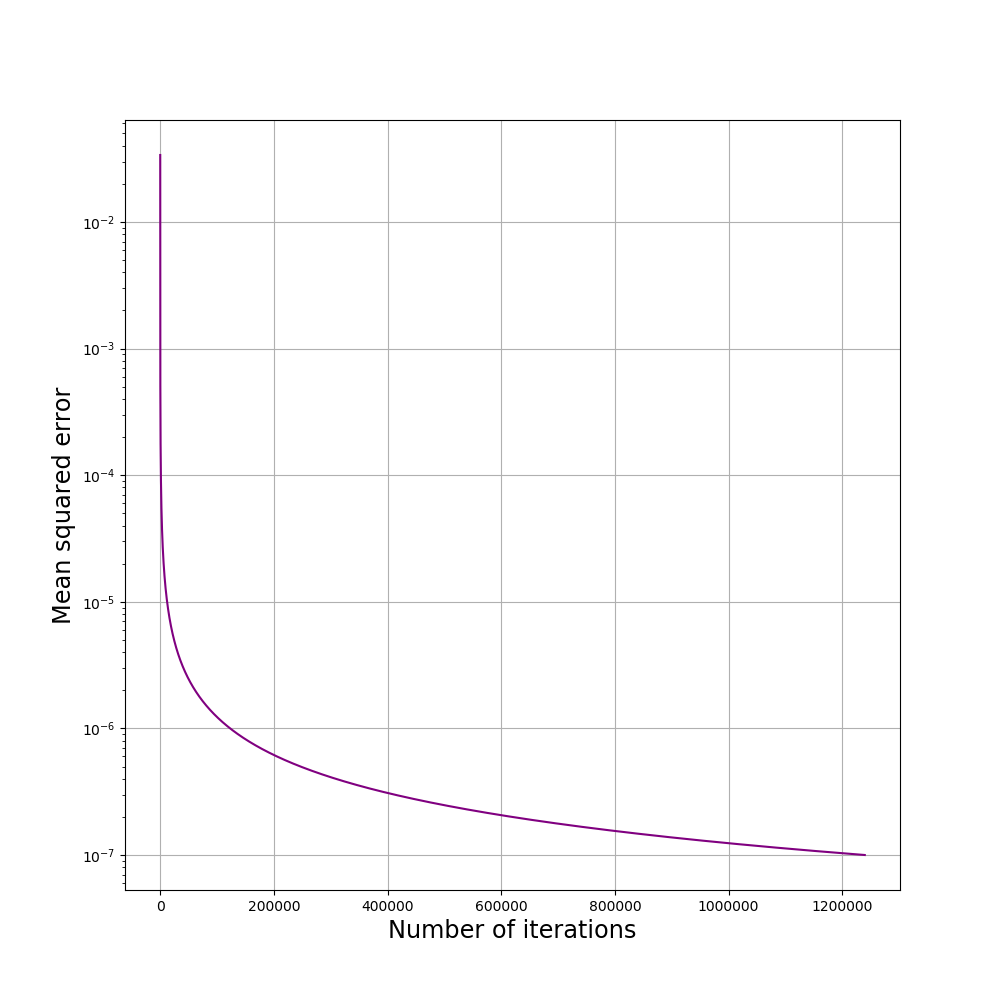
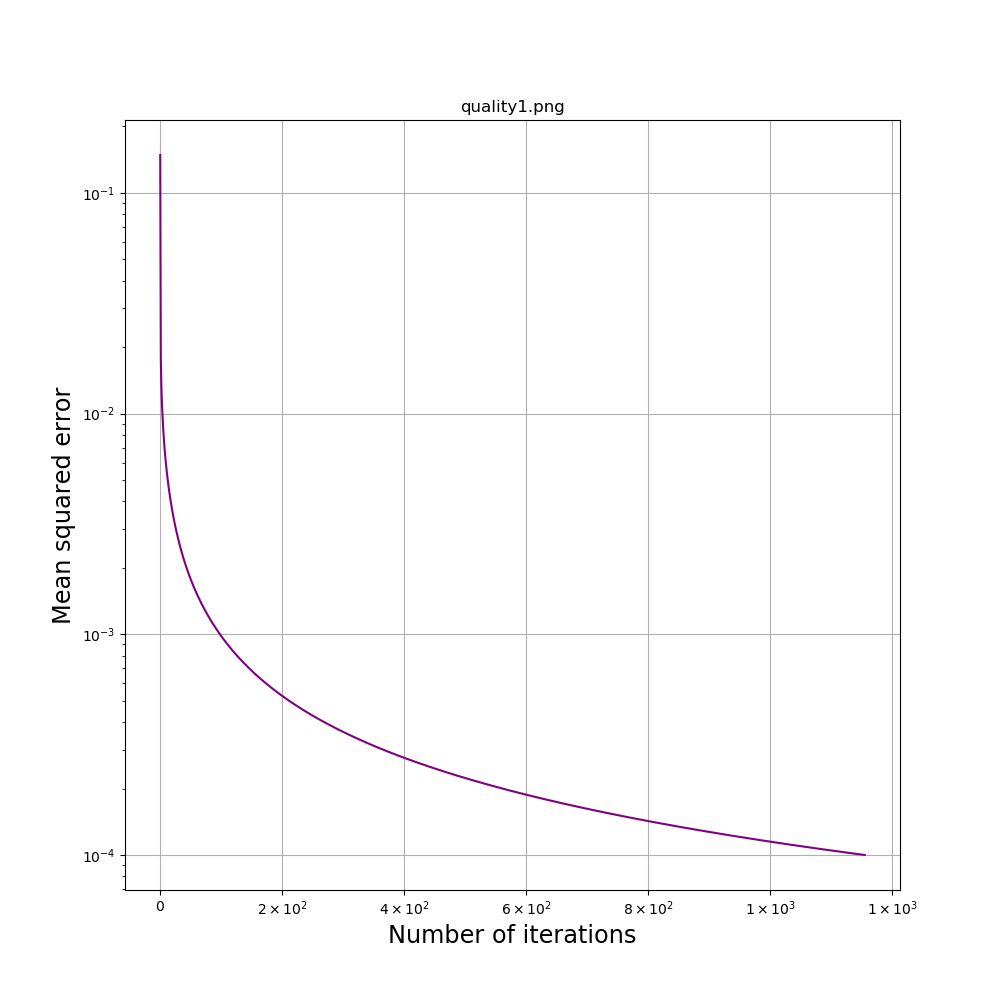
small tweeks in charts

diff --git a/Rozgrzewka_2/program.py b/Rozgrzewka_2/program.py
@@ -1,6 +1,9 @@
 #!/usr/bin/env python3
 import numpy as np
 from matplotlib.pyplot import cm
+from matplotlib.ticker import OldScalarFormatter,LogFormatter,ScalarFormatter
+from matplotlib import ticker
+import matplotlib.ticker as mtick
 import matplotlib.pyplot as plt
 from Aprox import *
 import csv
@@ -25,17 +28,25 @@ def getData(intput):
 def genName(intputFileName):
     noExt=intputFileName.split(".")[0]
     return "quality"+noExt[-1]+".png"
+def myticks(x,pos):
+    if x <= 0:
+         return "$0$"
+    exponent = int(np.log10(x))
+    coeff = x/10**exponent
+    return r"${:2.0f} \times 10^{{ {:2d} }}$".format(coeff,exponent)
 def plotChart(x,y,out):
         #Set up plot
-        plt.figure(figsize=(10,10))
+        fig=plt.figure(figsize=(10,10))
+        ax = fig.add_subplot(111)
+        ax.xaxis.set_major_formatter(ticker.FuncFormatter(myticks))
         plt.grid()
-        plt.title("")
+        plt.title(genName(sys.argv[1]))
         #plt.ylim([0,0.02])
         #plt.xscale("log")
         plt.yscale("log")
         plt.xlabel("Number of iterations",fontsize="xx-large")
         plt.ylabel("Mean squared error", fontsize="xx-large")
-        plt.plot(x,y,color='purple')
+        ax.plot(x,y,color='purple')
         plt.savefig(out)
 
 intput_file = open(sys.argv[1], "r+")
@@ -48,15 +59,15 @@ Error=1
 ErrorY=[]
 ErrorX=[]
 nOfIter=0
-while Error>10**(-5):
+while Error>10**(-4):
     Error=MSE(aprox,PointsX,PointsY);
     for i in range(len(PointsX)):
         aprox.updateWeigths(PointsX[i],PointsY[i])
     ErrorY.append(Error)
     ErrorX.append(nOfIter)
-    """if nOfIter%20==0:
+    if nOfIter%20000==0:
         print("Error:",Error)
-        print("Iteration:",nOfIter)"""
+        print("Iteration:",nOfIter)
     nOfIter+=1
 #print to stdout
 for i in aprox.W:
